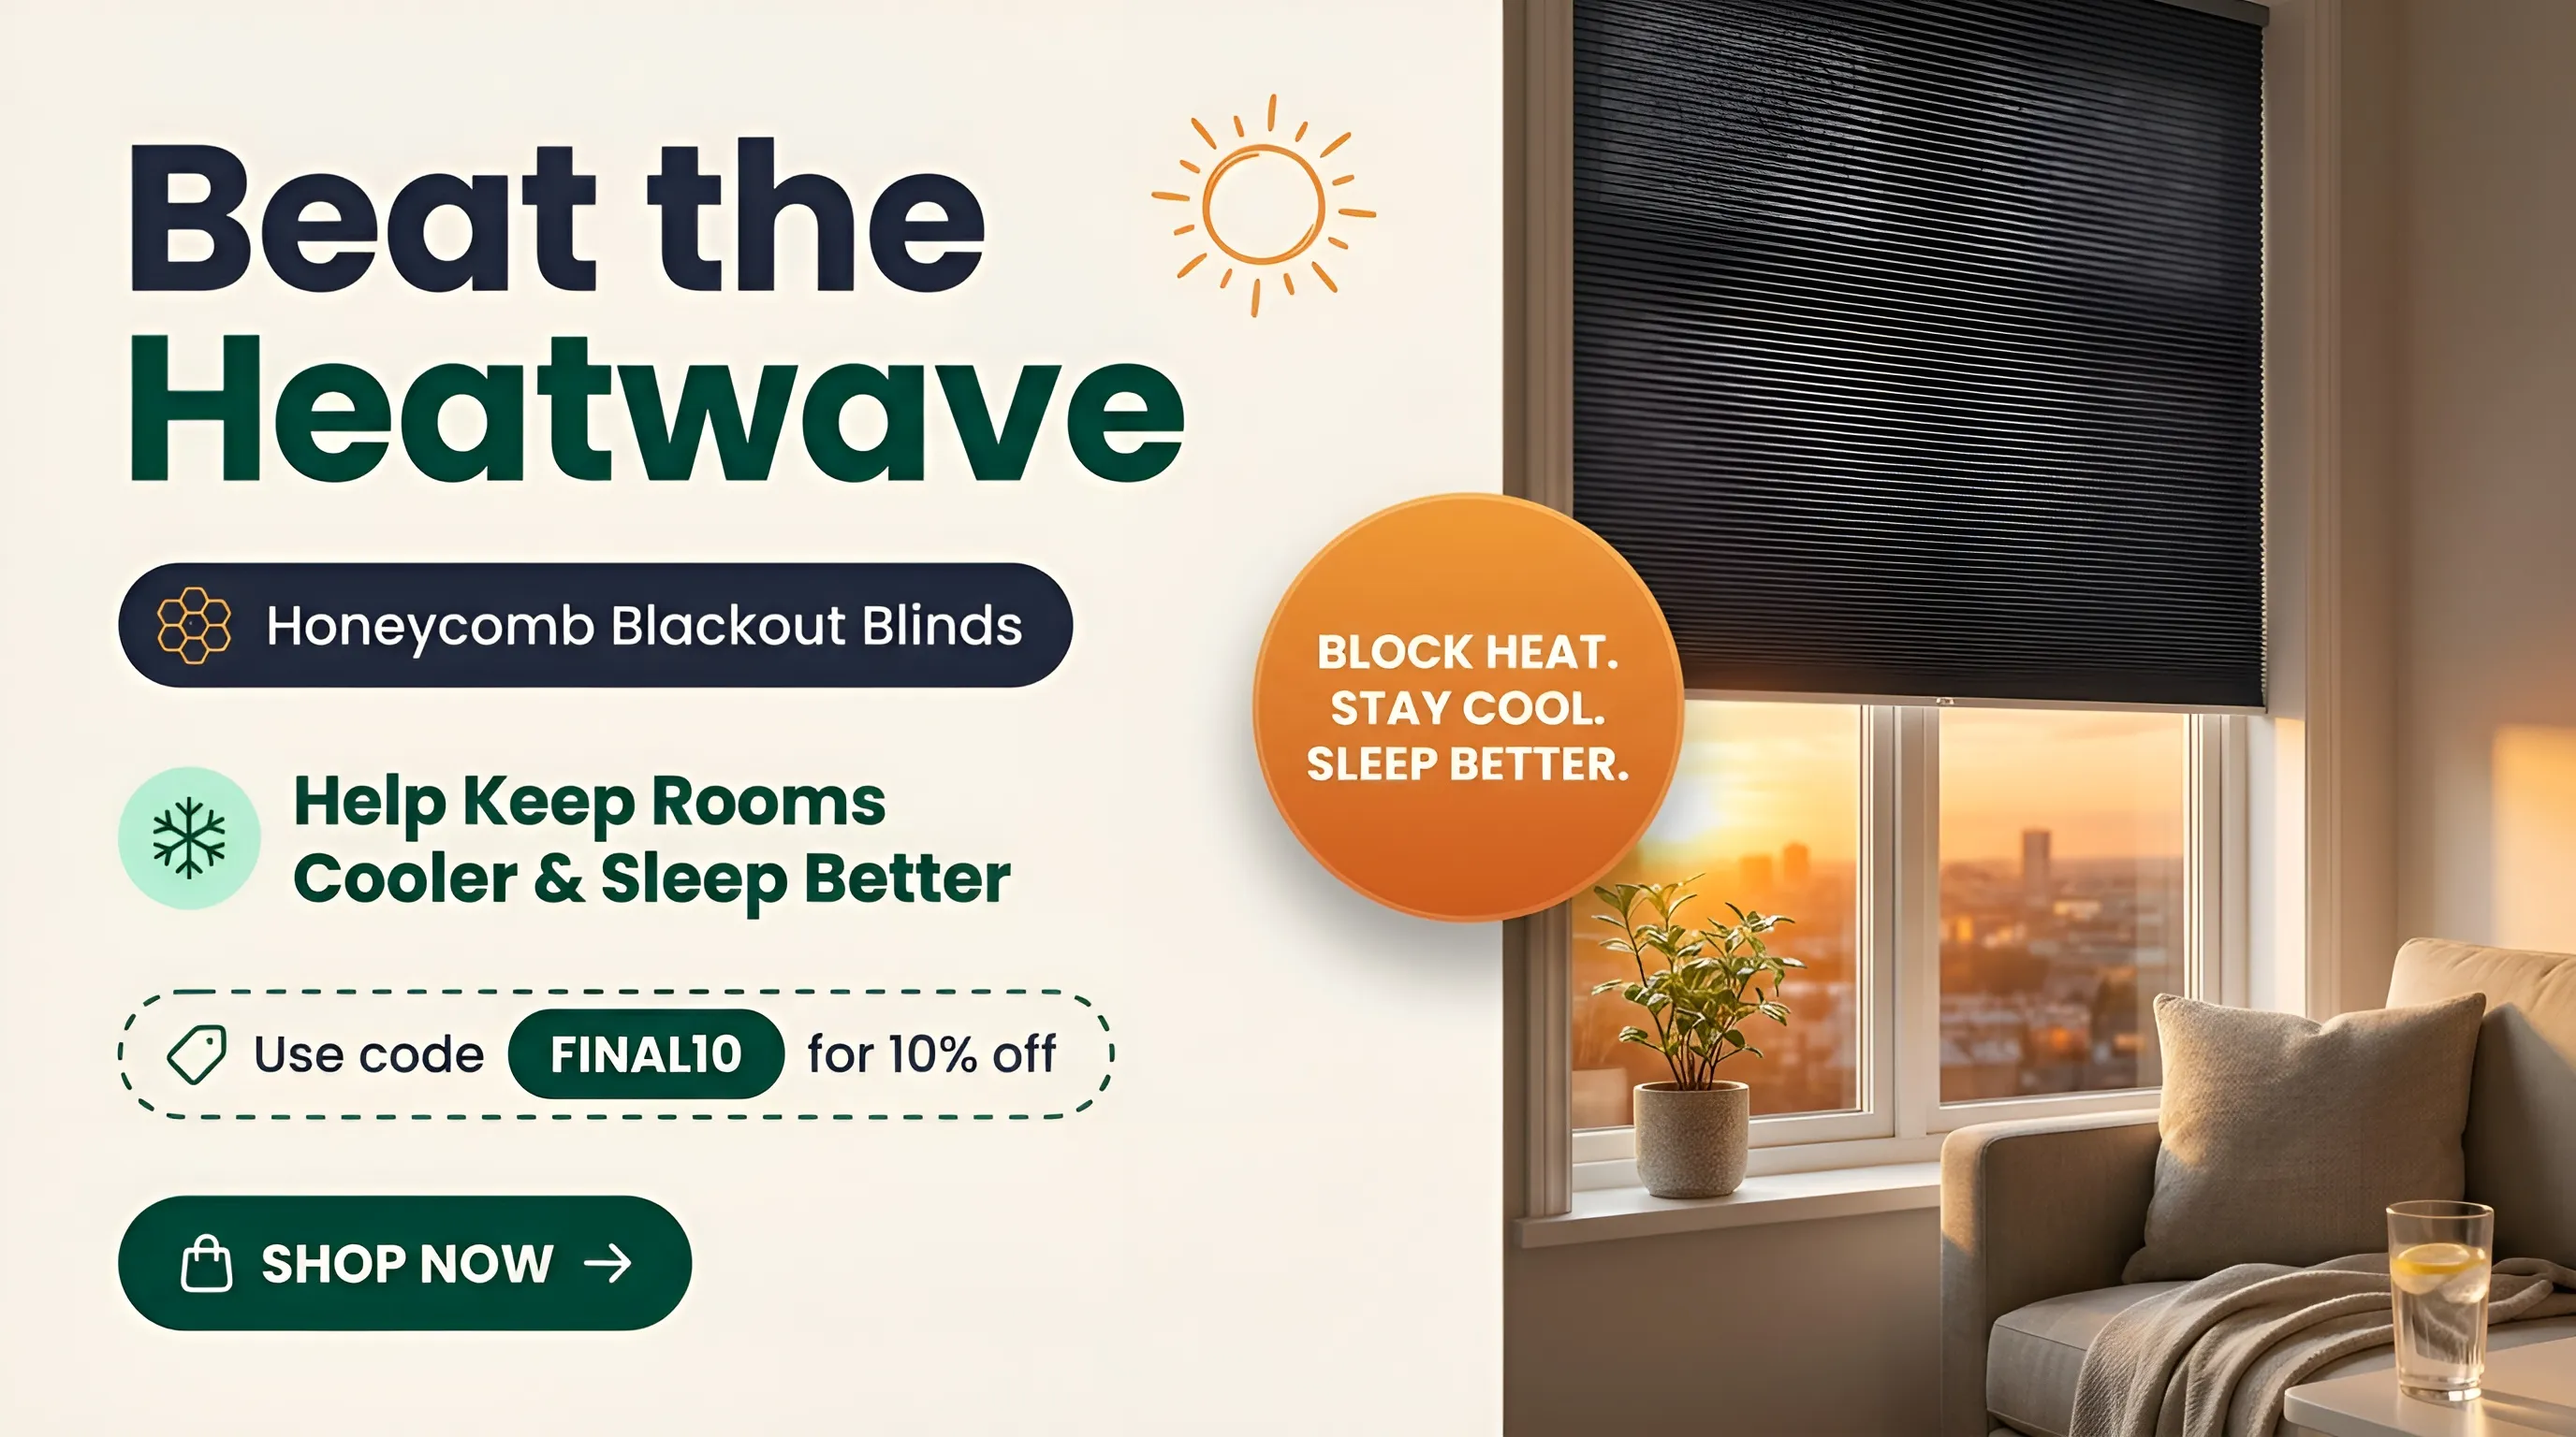
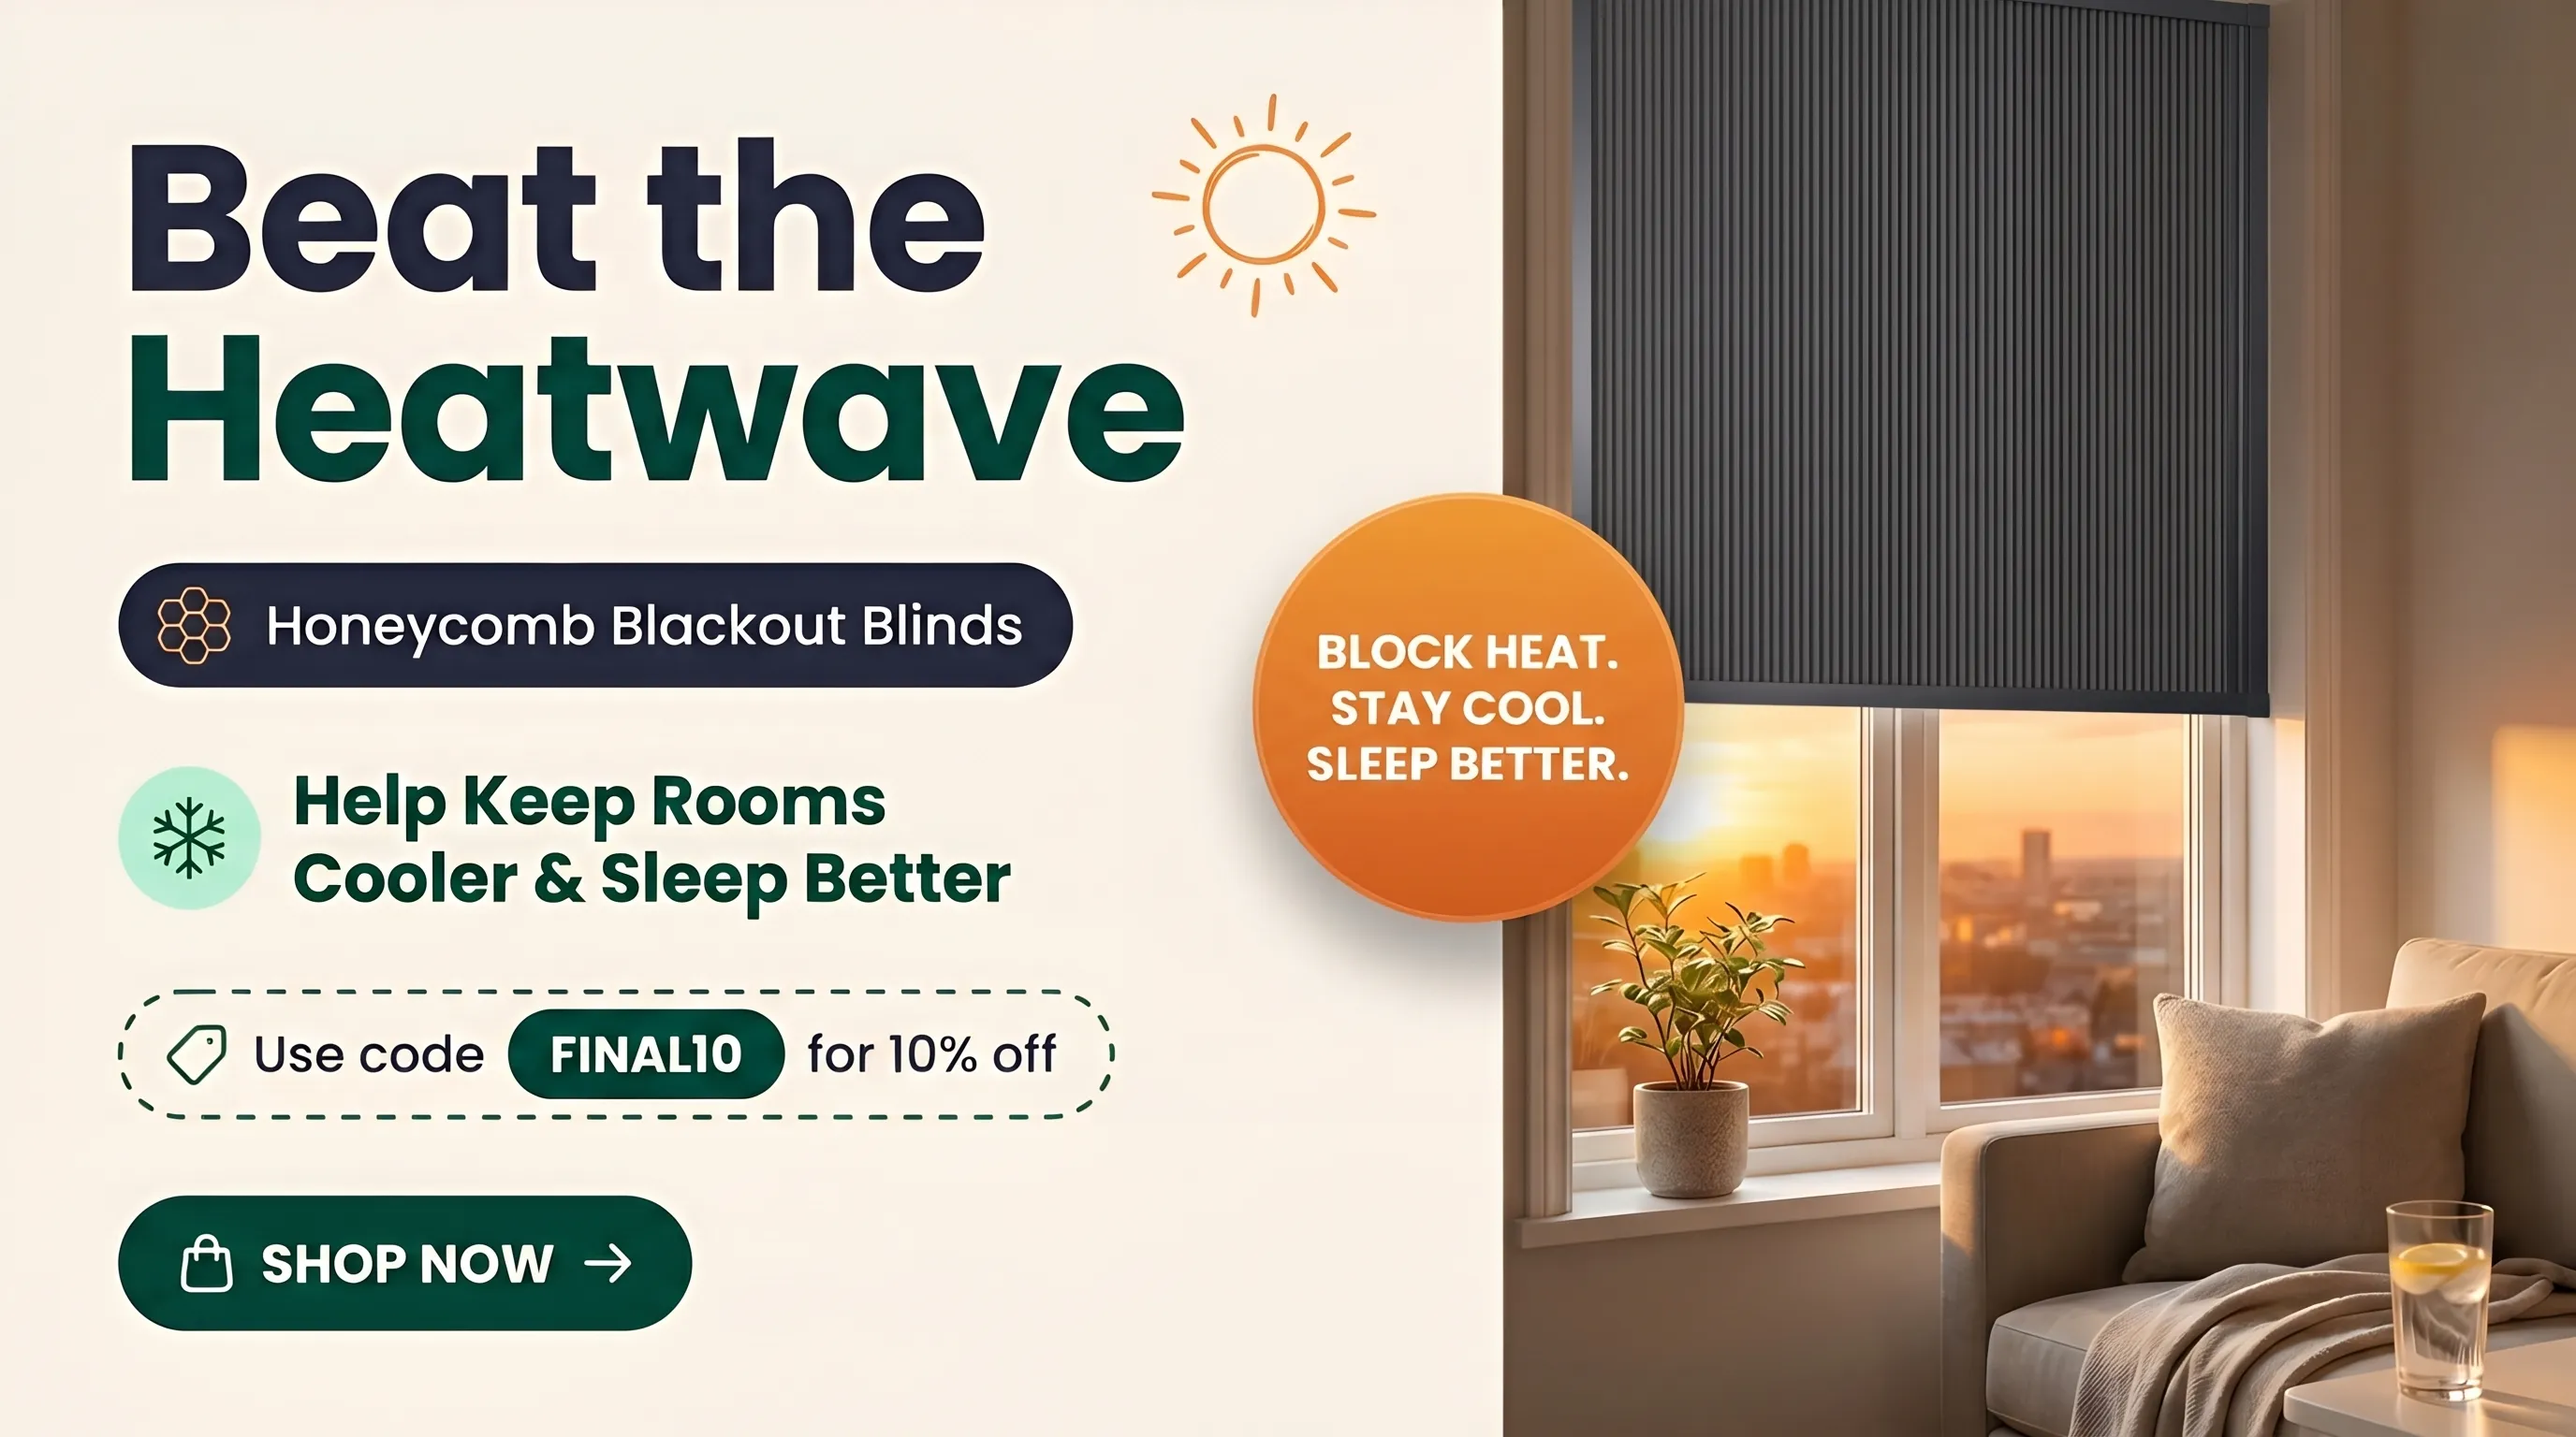
Updates

diff --git a/src/app/terms-and-conditions/page.tsx b/src/app/terms-and-conditions/page.tsx
@@ -19,7 +19,7 @@ const sections = [
   },
   {
     title: '3. Product Specifications & Accuracy',
-    content: `2.1 Images: All images on our website are for illustrative purposes only. While we strive for accuracy, colors and textures may appear differently depending on your screen settings and lighting. We strongly recommend ordering samples before placing a final order.\n\n2.2 Handcrafted Goods: As our blinds are handcrafted, minor variations may occur.\n\n2.3 Manufacturing Tolerance: Please note a machine tolerance of +/- 4mm, or up to +/- 6mm depending on fabric type, on all blinds. If a product falls within this tolerance, it is not deemed faulty.\n\n2.4 Day & Night Blinds: Large Day & Night blinds over 1800mm wide may exhibit a slight wave effect due to size and fabric weight restrictions.`,
+    content: `2.1 Images: All images on our website are for illustrative purposes only. While we strive for accuracy, colors and textures may appear differently depending on your screen settings and lighting. We strongly recommend ordering samples before placing a final order.\n\n2.2 Handcrafted Goods: As our blinds are handcrafted, minor variations may occur.\n\n2.3 Manufacturing Tolerance: Please note a machine tolerance of +/- 4mm, or up to +/- 6mm depending on fabric type, on all blinds. If a product falls within this tolerance, it is not deemed faulty.\n\n2.4 Day & Night Blinds: Large Day & Night blinds over 1800mm wide may exhibit a slight wave effect due to size and fabric weight restrictions.\n\n2.5 Product images are for illustration purposes only. Actual fabric colours and shades may vary slightly due to screen settings, lighting and photography.`,
   },
   {
     title: '4. Measurements & Custom Orders',

diff --git a/src/components/product/CustomizationModal.tsx b/src/components/product/CustomizationModal.tsx
@@ -428,7 +428,7 @@ const CustomizationModal = ({
                   if (isDayNightBandHProduct(product)) {
                     return `${fmt(addDays(today, 5))} - ${fmt(addDays(today, 7))}`;
                   }
-                  return fmt(addDays(today, 12));
+                  return `${fmt(addDays(today, 8))} - ${fmt(addDays(today, 12))}`;
                 })()}</span>
               </p>
               <div className="flex items-center gap-1 mb-4 md:mb-6">

diff --git a/src/components/product/ProductPage.tsx b/src/components/product/ProductPage.tsx
@@ -1235,7 +1235,7 @@ const ProductPage = ({
                       if (isBandHProduct) {
                         return `${fmt(addDays(today, 5))} - ${fmt(addDays(today, 7))}`;
                       }
-                      return fmt(addDays(today, 12));
+                      return `${fmt(addDays(today, 8))} - ${fmt(addDays(today, 12))}`;
                     })()}
                   </div>
                 </div>

diff --git a/src/types/index.ts b/src/types/index.ts
@@ -360,7 +360,7 @@ export const DEFAULT_PRODUCT_FEATURES: ProductFeatures = {
   hasRollerCassette: false,
 };
 
-export const DEFAULT_ESTIMATED_DELIVERY = '7-12 business days';
+export const DEFAULT_ESTIMATED_DELIVERY = '8-12 business days';
 export const DEFAULT_RATING = 5;
 export const DEFAULT_REVIEW_COUNT = 0;
 
